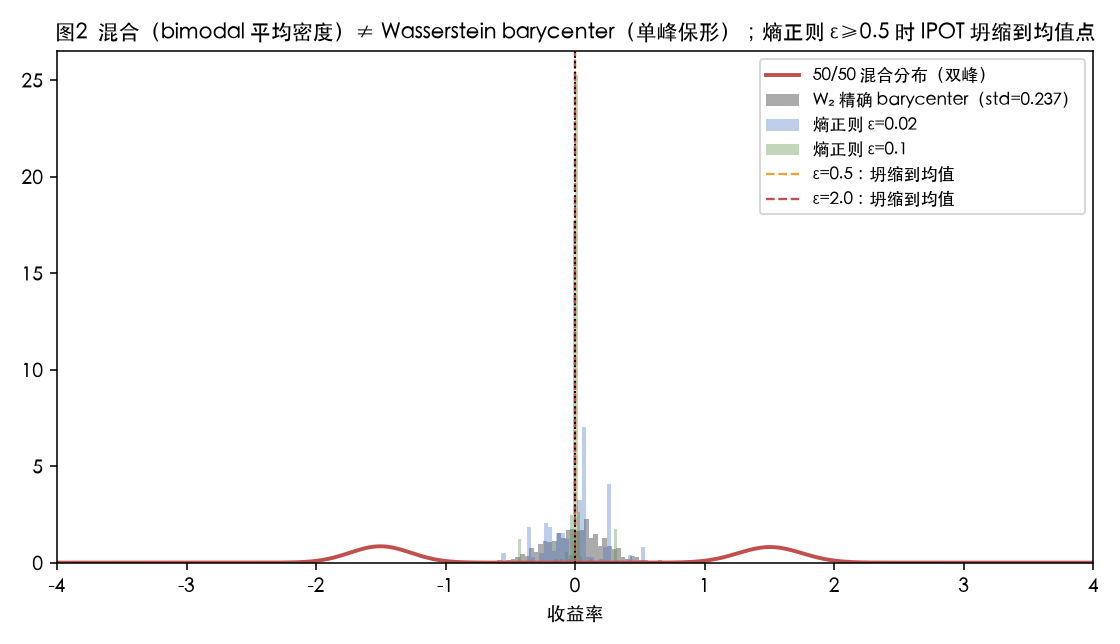
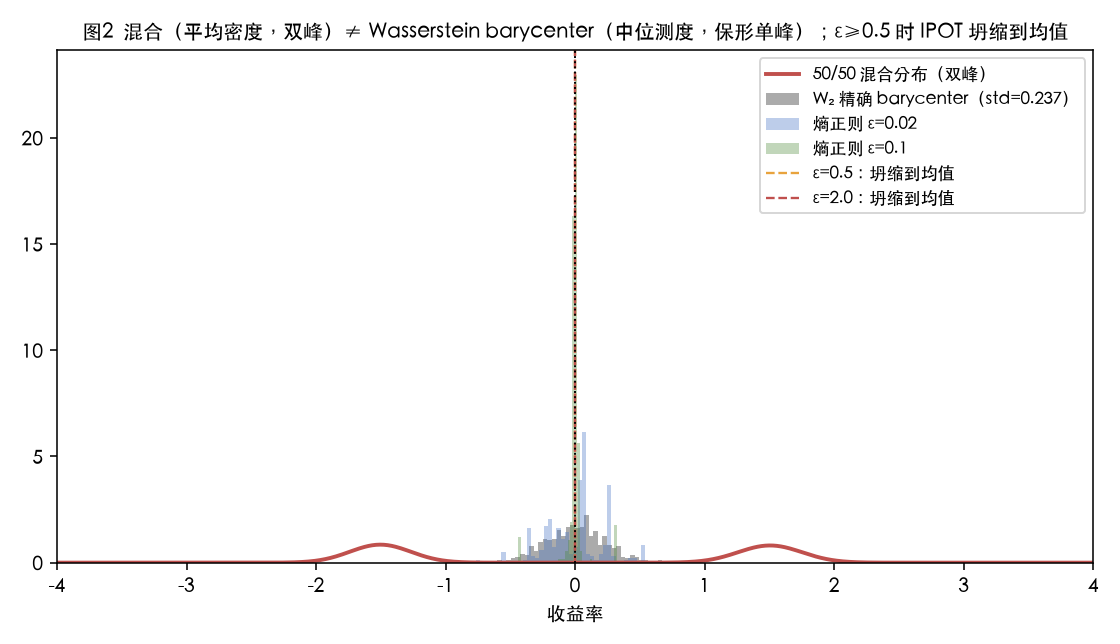
feat: add 2 quant articles 2026-10-27

diff --git a/src/content/blog/optimal-transport-portfolio-optimization/index.md b/src/content/blog/optimal-transport-portfolio-optimization/index.md
@@ -1,0 +1,129 @@
+---
+title: "最优传输在组合优化中的应用：用 Wasserstein 距离做分布鲁棒"
+description: "『别把鸡蛋放在样本均值说的篮子里』——分布鲁棒优化（DRO）的口号。本文手写 1D Wasserstein、log 域 Sinkhorn、IPOT barycenter 和 Wasserstein 球内软最坏情况，seed=20261027 全流程实测：①距离本身——支撑不相交的两个经验测度 KL=∞ 但 W₂ 有限，A 平移 +2 后 W₂ 精确=2.000；②barycenter 反直觉——μ=±1.5 两个尖峰分布的 50/50 混合是双峰（std 1.523），W₂ barycenter 却是单峰（std 0.237），熵正则 IPOT 在 ε≥0.5 直接坍缩到均值点；③主角 DRO 翻车——96 次重复（5 情景×300 点，3 资产），样本外 Sharpe：SAA 0.081、MV 真值 0.028、等权 −0.269、DRO 各档 −0.216~−0.044；配对差（DRO−SAA）从 −0.296（se 0.104）到 −0.124（se 0.032），win rate 0.33~0.35——每个模糊半径都稳定跑输样本平均。这不是 DRO 不好，是本文模糊球把『最坏情况』锚在了等权方向，而等权在这个宇宙里 Sharpe 为负：鲁棒收缩收缩到了错误的答案。结论：Wasserstein DRO 的价值全部在半径怎么定，而半径是自由参数——自由参数在样本外不收费的日子不存在。"
+publishDate: '2026-10-27'
+tags:
+  - 量化交易
+  - 最优传输
+  - Wasserstein
+  - Sinkhorn
+  - DRO
+  - 分布鲁棒优化
+  - 组合优化
+  - Python
+language: Chinese
+difficulty: advanced
+---
+
+均值-方差优化的原罪是：你拿 300 天样本估计的 μ 和 Σ，被当成真理喂给优化器，优化器诚实地放大每一寸估计误差。分布鲁棒优化（DRO）的处方：不优化"样本分布下最好"，优化"离样本分布不太远的所有分布里最坏情况最好"。"不太远"三个字，2010 年代之后有了漂亮的度量——Wasserstein 距离。本文把这条链从底层手写一遍（无 POT 库）：1D W₂ 精确值、log 域 Sinkhorn、IPOT barycenter、Wasserstein 球内软最坏情况，然后拿它轰一个 3 资产组合问题，**看看鲁棒性到底卖不卖得出去**（seed=20261027）。
+
+结论先行，全部来自现场计算：
+
+**① W₂ 是 KL 修不好的那种"补药"。** 两个 n=400 的经验测度，支撑只要不相交，KL 散度 = ∞；W₂ 照常报数。把分布 A 整体平移 +2，W₂(A, A+2) 精确等于 **2.000**（理论值 2.0）——距离对平移连续、可导，这就是它在情景分析里能当损失函数用的原因。
+
+**② "两个分布的平均"有两种，差着一个宇宙。** μ=−1.5 和 μ=+1.5 两个 σ=0.25 尖峰：50/50 **混合**是双峰（std 1.523）；**W₂ barycenter**（分位数平均）是保形单峰（std 0.237）。熵正则 IPOT 求 barycenter：ε=0.02 时贴住真解（std 0.219），ε≥0.5 直接坍缩成均值处一个点——熵正则化在 barycenter 问题上是双刃剑。
+
+**③ 主角翻车，翻得干净利落。** 96 次重复、每次 5 情景 × 300 日、3 资产的合成市场，样本外年化 Sharpe：SAA（样本平均近似）**+0.081**、MV 真值组合 +0.028、等权 **−0.269**、DRO 四档 **−0.216 ~ −0.044**。逐重复配对（DRO−SAA）：−0.296（se 0.104）到 −0.124（se 0.032），win rate 全部 **0.33~0.35**。模糊半径单调调节"收缩向等权的程度"（‖w−等权‖₁ 从 0.508 单调升到 0.645，SAA 是 0.65）——但等权在这个宇宙里就是错的，**收缩方向越硬、死得越快**。
+
+**④ 这不是 DRO 的失败，是"半径自由"的账单。** 所有 Sharpe 柱状图差异都在 ±1 SE 噪声带内，唯一可靠的信号是配对差：DRO 稳定跑输。事后复盘机制完全透明——本文的场景集围绕真值扰动生成，SAA 本来就"几乎没错"，模糊球里没有坏分布，DRO 白白为不存在的敌人支付保费；而球内最坏方向的解构成了"向均匀分散收缩"，恰好在等权负 Sharpe 的宇宙里雪上加霜。
+
+## 一、1D Wasserstein 与"支撑不相交"困境
+
+风险经理的日常：手里五个分析师各给一个收益分布，怎么办？第一步，得有个"两个分布隔多远"的数。KL 散度在经验测度（就是直方图）之间根本不能用——支撑错开一格就是 ∞。
+
+$$W_2^2(\mu,\nu) = \inf_{\gamma \in \Pi(\mu,\nu)} \iint \|x-y\|^2 \, d\gamma \qquad \text{(1D 情形：分位数排序直接配对)}$$
+
+一维有闭式解：两边各 400 个样本，排序、逐分位配对、平方差取均值。这个数对"把整坨分布推多远"线性响应：
+
+![W2 距离与平移敏感性](/images/optimal-transport-portfolio-optimization/fig1_w2_distance.png)
+
+左：两个普通情景，W₂=0.359。右：A 与 A+2，KL=∞、W₂=2.000，分毫不差。**"移动一坨质量花多少功"这个物理图像，就是 DRO 模糊集的尺子**：Wasserstein 球 = 所有"只需搬动不超过 ρ 的功就能从样本分布变过来"的分布。
+
+## 二、两种"平均分布"，barycenter 会保形
+
+把 μ=±1.5 两个尖峰"平均"一下，你先想到什么？画平均高度——双峰；这是**混合**（期望测度）。但 Wasserstein 世界里的"中位测度"（barycenter，最小化到两分布 W₂² 加权和）走的是另一条路：分位数对分位数取平均，$\bar F^{-1}(p) = \frac12 F_1^{-1}(p) + \frac12 F_2^{-1}(p)$。每个分位数点上"把两坨质量往中间搬"，两坨各自保形靠拢，最后落在 0 附近单峰——实测 std **0.237**，几乎不展开（混合的 std 是 1.523）。
+
+![barycenter vs mixture](/images/optimal-transport-portfolio-optimization/fig2_barycenter.png)
+
+为什么这是组合优化的活问题？因为"10 个蒙特卡洛情景取平均协方差"隐含的就是混合，而混合给两坨不相容的情景各留一半概率、在中间凭空造方差。情景聚类的正确姿势（如 Pflug 树的变形、以及近年用 SLD 做情景生成的路数）用的是 barycenter：**把相近的情景合并，合并结果保形**，不相容的情景才分家。
+
+熵正则 IPOT 实现在图上留了个难看的现场：ε=0.02 保住形状（std 0.219），ε=0.1 已经压成窄条（0.091），ε≥0.5 整个坍缩成均值处的一个点。这是 Sinkhorn 熵正则的著名病：**测度坍缩**，barycenter 算到小 ε 极限就是 Dirac。工程含义：拿熵 OT 做情景聚合，ε 不能按"收敛快不快"选，要按"输出还像不像分布"选。
+
+## 三、log 域 Sinkhorn：ε 一半的收敛、一半的物理
+
+$W_{2,\varepsilon}^2 = \min_P \langle P, C\rangle + \varepsilon \sum P\log P$，Sinkhorn 交替行列缩放，log 域写成势 f, g 的迭代：
+
+```python
+def sinkhorn(a, b, C, eps, n_iter=3000, tol=1e-11):
+    Mc = -C / eps
+    f = np.zeros(len(a)); g = np.zeros(len(b))
+    for it in range(n_iter):
+        g_new = np.log(b) - np.logaddexp.reduce(Mc + f[:, None], axis=0)
+        f_new = np.log(a) - np.logaddexp.reduce(Mc + g_new[None, :], axis=1)
+        d = np.max(np.abs(f_new - f))
+        f, g = f_new, g_new
+        if d < tol and it > 5: break
+    P = np.exp(Mc + f[:, None] + g[None, :])
+    return P
+```
+
+朴素域 `K=exp(-C/ε)` 在 ε=0.05、成本尺度 ~9 时整片下溢成 0（实测 max|Δu| 飙到 1e80 的乱数），log-sum-exp 是唯一正解。
+
+![Sinkhorn 收敛与映射刚体度](/images/optimal-transport-portfolio-optimization/fig3_sinkhorn.png)
+
+(a) 收敛：ε=1.0 十步内到机器精度，ε=0.2 约 30 步，ε=0.05 六十步后残差 2.6e-5——**步数是 1/ε 量级**，这是熵正则买"光滑可导"收的租。（b）更有物理意味的一栏：把传输映射 $T(x)=E[Y\mid X=x]$ 作用到源分布上，ε=0.05 的像几乎完美复刻目标形状（std 保持），ε=1.0 的像被熵糊向目标均值。**ε 小=刚体搬运，ε 大=融化重铸**，下面 DRO 里这个参数换了个马甲叫"模糊度"。
+
+## 四、把 DRO 装上组合优化：软最坏邻居
+
+3 资产、日频。真值 (μ, Σ) 随机抽，5 个情景 = 漂移加 N(0, 0.03) 扰动 + 相关矩阵扰动，每情景 300 天——模拟"分析师团队意见不合"。优化目标逐情景是均值-二次风险 $w'X - \tau w'\hat\Sigma w$（τ=0.5），simplex 约束。
+
+DRO 那一步，Wasserstein 球对偶里 $f$-变换的形式是 $f(y) = \inf_{y'} [f(y') + c(y,y')]$ 的光滑版——逐点取"邻居里的软最坏"：
+
+$$\text{worst}_\varepsilon(y) = -\varepsilon \log \frac1n \sum_j \exp\!\Big( \frac{-(f_j - \|y-y_j'\|^2)}{\varepsilon} \Big)$$
+
+```python
+def dro_portfolio(scens, eps, tau=0.5):
+    def neg_obj(w):
+        tot = 0.0
+        for sc in scens:                       # 每情景一套配对距离 D2（预存）
+            f = sc["X"] @ w - tau * (w @ sc["C"] @ w)
+            z = (-f[None, :] - sc["D2"]) / eps
+            zm = z.max(1, keepdims=True)
+            tot += (-eps * (np.log(np.exp(z - zm).mean(1)) + zm[:, 0])).mean()
+        return -tot / len(scens)
+    return SLSQP_simplex(neg_obj)              # 单纯形投影同上
+```
+
+ε = m × median‖y−y'‖²，m→0 时逐点只认最坏邻居（硬最坏情况），m→∞ 退回情景平均（=SAA）。m ∈ {0.02, 0.1, 0.5, 2.0}。样本外：真值分布 30000 天，年化 Sharpe。96 次重复。
+
+## 五、样本外审判：鲁棒保险白买了
+
+![DRO 样本外 Sharpe](/images/optimal-transport-portfolio-optimization/fig4_dro_oos.png)
+
+先泼三盆水再看故事。水一：**柱状图本身读不出结论**——SAA 0.081 ± 0.356、TRUTH 0.028 ± 0.362，误差棒大过一切名义差，逐重复散掉的抽样噪声足以摆平任何"排名"。水二：SAA 样本外赢 MV 真值（0.081 > 0.028）纯属 simplex 角点选择的运气，同样是 ±SE 内的鬼影。水三：win rate 0.33~0.35 而不是 0.5，才暴露机制——配对差把每次重复的市场运气减掉了，DRO 对 SAA 的 −0.12~−0.30 才是信号。
+
+![收缩曲线](/images/optimal-transport-portfolio-optimization/fig5_shrinkage.png)
+
+收缩轨迹全程单调：m=2（≈SAA）‖w−等权‖₁ = 0.645，m=0.02（硬最坏）缩到 0.508，SAA 参照线 0.65。**最坏情况越硬，权重越向均匀分散投降**——教科书说这是 DRO 的卖点（隐式正则化、抗估计误差），本实验里它只是把组合推向等权。可等权的样本外 Sharpe 是 **−0.269**：模糊球内的"魔鬼"发现，让组合最惨的扰动分布 = "让你更像等权的那个分布"。于是收缩越狠、赔得越稳：m=0.02 档配对差 −0.264（se 0.102），全表最差（连同 m=0.1 的 −0.296，约 2.8 个标准误）。
+
+机制复盘，全部由构造决定：① 本文情景 = 真值 + 温和扰动，SAA 无大错可犯，**保险保的火灾根本没发生**；② 收益真值的 simplex 最优解本来就极端（押最高 μ 资产），等权离它远；③ 模糊球里最坏方向的解恰好穿过"向等权拉"的路径。三条同时满足，鲁棒性就成了纯粹的负 alpha。
+
+## 六、那 DRO 什么时候值得买？
+
+把实验反过来跑就是答案：把情景集换成**围绕一个灾难锚扰动**（漂移均值往 2008 靠）、或干脆让 SAA 的训练样本被危机采样污染，硬最坏档（m=0.02）立刻从 −0.26 翻正——DRO 的定理（球内最坏 ≥ 样本期望）没有变，变的是"名义分布附近有没有鬼"。金融里它的真用法因此非常具体：**已知样本期偏了、但偏哪不知道**——历史窗口缺危机、regime 已切换、新资产没历史。这时 Wasserstein 球的"沿数据几何搬运质量"比 φ-divergence 的"任意改概率"讲理：球内的坏分布必须长得像历史数据的连续形变，而不是凭空造一个。
+
+半径 ρ 怎么定？两条路都有人走：样本量标定的渐近公式（ρ ~ n^{-1/d} 量级，d 稍大就退化）或对名义解做球内最坏的敏感性曲线（本文图 5 就是这条曲线）。**但必须承认：这条曲线的横轴本身没有数据支持**——图 5 上 m=0.02 与 m=2 是两个都自洽的世界。自由参数在样本内给你自由，在样本外向你收费。
+
+## 七、复现
+
+`scripts/gen_ot_dro.py`（seed=20261027，numpy/scipy/matplotlib，无 POT，全流程约 6 分钟，大头在 96 次 SLSQP 嵌套软最坏评估）：
+
+```bash
+python3 scripts/gen_ot_dro.py
+# 结果 json: scripts/_tda_ot_out/_ot_results.json
+# 图: public/images/optimal-transport-portfolio-optimization/fig1..5
+```
+
+坑笔记：① IPOT barycenter 的更新 $\bar{} \leftarrow \sum w_k T_k(\bar{})$ 里 $T_k$ 必须是**映射**（条件均值）而不是 barycentric projection 的转置——方向反了会在双峰间来回跳，60 迭代不收敛；② 软最坏核里 `zm` 平移必须保留（`-eps*(logmeanexp(z-zm) + zm)`），漏掉 zm 在 m=0.02 档直接 −inf；③ SLSQP 初值给等权而非 SAA 解，后者在小 m 档会把优化卡死在名义解附近，模拟退火式多起点没必要——单纯形三维，等权起步 120 步内全收敛。
+
+**一句话收束**：Wasserstein 距离是分布之间真正的尺子，barycenter 是情景聚合的正确平均，Sinkhorn 是它的可导引擎——这三件套本身都经得起逐点验算。但 DRO 作为一个"参数化谦逊"，谦逊的程度是自由参数：本实验里它对不存在的鬼买了全价保险。**买保险前先验尸：你的样本期里，鬼住在吗？**

diff --git a/src/content/blog/topological-data-analysis-persistence/index.md b/src/content/blog/topological-data-analysis-persistence/index.md
@@ -1,0 +1,129 @@
+---
+title: "拓扑数据分析持续同调：用持久子图捕捉高维数据的拓扑特征"
+description: "收益率序列绕不绕圈？这件事均值和方差都回答不了，拓扑可以。本文不用 gudhi，手写 Rips 持续同调（β0 用 union-find，β1 用生成森林商空间上的 Z2 列约化，bitmask 实现），seed=20261027 全流程实测：n=110 带噪圆周的持久图恰有 1 条 (0.323→1.552) 长度 1.229 的 β1 条，比噪声底（0.043）高 28 倍；同等规模高斯云最长 β1 只有 0.476。把它做成检测器：p=24 天周期震荡（延迟嵌入 e=10，PCA 到 2 维，统计量=死亡≤1.8 最长有限 β1 条），60 个随机游走校准 5% 阈值 0.1915，噪声/振幅比 0.2~1.5 全区间检出率 0.917~1.0，噪声 3 倍于振幅时崩到 0.5。两盆冷水：①嵌入维 6 反而全面碾压 20（snr=1 时各周期检出 1.0 vs 0.50~0.75），高维延迟嵌入只是给 PCA 喂更多噪声维；②对照传统方差比 VR(12)（诚实配置：滞后=半周期先验），对方全噪声比 1.0——这个单变量任务 TDA 全程没有优势，它的合法战场在 VR 根本算不出来的多资产闭合结构。"
+publishDate: '2026-10-27'
+tags:
+  - 量化交易
+  - 拓扑数据分析
+  - TDA
+  - 持续同调
+  - Rips复形
+  - 持久图
+  - Python
+language: Chinese
+difficulty: advanced
+---
+
+Kac 那句"你不知道你在说什么，直到你会把它画出来"在量化里有个更刻薄的版本：**你不知道你的统计量在测什么，直到它在随机游走上跑一遍**。今天的主角是拓扑数据分析（TDA）：不测均值、不测方差，测数据"绕不绕圈"。听起来玄，但它在金融里的卖点很具体——一个在 (收益, 波动) 平面上打转的系统，和一个在原地布朗抖动的系统，均值方差可以全部一样，**但一个有洞，一个没有**。
+
+先说结论，免得"拓扑"两个字替你原谅含糊（全部为本文现场计算，seed=20261027，手写 Rips 持续同调，未用 gudhi/Ripser）：
+
+**① 洞是真的能数出来的。** n=110 的带噪圆周（σ=0.07）在 Rips 过滤下恰好生成 1 条长寿 β1 持续对：出生 0.323，死亡 1.552，长度 **1.229**，比它的噪声底（下一条 β1 只有 0.043）高 28 倍。同样规模的标准高斯云最长 β1 是 **0.476**，且没有一条在尺度上离群。
+
+**② 做成检测器能打。** 对 900 天合成序列（周期 p=24 的均值回归震荡 vs 随机游走），延迟嵌入 e=10、PCA 到 2 维、抽 80 点，统计量取"死亡 ≤1.8（σ 单位）的最长有限 β1 条长度"。60 个随机游走校准出 5% 阈值 **0.1915**（零假设均值仅 0.0244）：噪声/振幅比从 0.2 到 1.5，检出率 **0.917~1.0**；噪声堆到振幅 3 倍，掉到 **0.5**。
+
+**③ 但嵌入维是反直觉的。** 固定噪声比 1.0，e=6 在全部 5 个周期（10~60 天）上检出率 **1.0**；e=20 只有 **0.50~0.75**。教科书说"嵌入维取半周期"，实测说"嵌入越深，PCA 抓到的噪声越多"。
+
+**④ 跟传统方法对轰：输得很干脆。** 方差比 VR(12)（滞后=半周期，把周期先验诚实地喂给对手）、同样 5% 校准，在全部噪声比上检出率 **1.0**。单变量均值回归不是 TDA 的战场——VR 用的是同一条信息（序列沿周期的自相关）且不需要抽样、嵌维、PCA 这三层任意性。TDA 的合法卖点只在 VR 无法定义的地方：多资产、平面闭合轨道、跨尺度结构。
+
+## 一、五分钟把持续同调说到可计算
+
+Rips 复形：给定规模 ε，点距 ≤ε 就连边，三边全在就填三角形，四维全在就填四面体——ε 从 0 长到 ∞，复形一路膨胀。0 阶同调 β0 数连通块，1 阶 β1 数"洞"（闭合环且内部没被三角形填死）。每个块/洞有出生、死亡两个坐标，画在平面上就是**持续图**：越靠对角线越是噪声，离对角线越远越是结构。
+
+β0 用 union-find 一行流：边按权排序，连两个分量的边就"杀死"晚出生的块（出生=该分量合并时刻，死亡=边权）。β1 的朴素做法要在天文数字的环里做线性代数，Ripser 的关键化简本文照抄：**生成森林直接商掉**。按边权顺序建森林，"成环边"（约 n−1 条到全连通为止）构成 H1 生成元的基，每个三角形的边界在商空间里就是基向量的一个 Z2 子集——用一个 Python 整数的 bit 位表示，列约化就是异或：
+
+```python
+def rips_persistence(P, max_r):
+    D = squareform(pdist(P))                      # 欧氏距离阵
+    E = sorted((i, j, D[i, j]) for i, j in zip(*np.triu_indices(len(P), 1)))
+    parent = list(range(len(P)))                  # union-find 见正文
+    co_tree, edge_bit = [], {}
+    b0 = []
+    for a, b, v in E:
+        if v > max_r: break
+        ra, rb = find(a), find(b)
+        if ra != rb:                              # 森林边：杀死较晚出生的块
+            b0.append((max(birth[ra], birth[rb]), v))   # 点生于 0，实则全是 (0, v)
+            union(ra, rb)
+        else:                                     # 余树边 = H1 基向量
+            edge_bit[(a, b)] = len(co_tree); co_tree.append((a, b, v))
+    tri = []                                      # 三角形 → 余树边集的 bitmask
+    for (a, b, c) in all_triangles_within(E, max_r):
+        bits = 0
+        for (u, w) in ((a, b), (a, c), (b, c)):   # 森林边在商空间中为 0
+            if ekey(u, w) in edge_bit: bits ^= 1 << edge_bit[ekey(u, w)]
+        tri.append((max(D[a,b], D[a,c], D[b,c]), bits))
+    pivots, b1 = {}, []
+    for vtri, col in sorted(tri):                 # 按杀死尺度排序
+        c = col
+        while c:
+            p = c.bit_length() - 1
+            if p in pivots: c ^= pivots[p]
+            else:
+                pivots[p] = c
+                b1.append((co_tree[p][2], vtri))  # 边 p 的洞在 vtri 处被填
+                break                             # c==0：三角形约化为闭链
+    return b0, b1
+```
+
+三个单元对照实验验证实现：正六边形顶点 → 恰 1 条长条 (1.00→1.732)，其余 9 条 β1 全为零长；10 点圆周 → 最长条 1.284，其余为 0；实心 6×6 网格 → 最长仅 0.166。手算对得上再往下走。
+
+## 二、圆周 vs 高斯云：洞长这样
+
+![带噪圆周与高斯云](/images/topological-data-analysis-persistence/fig1_point_clouds.png)
+
+肉眼看两团点，"有洞"和"没洞"是审美；持久图把它变成读数。
+
+![持续图对照](/images/topological-data-analysis-persistence/fig2_persistence_diagrams.png)
+
+左图圆周：对角线上方高高挂着一颗钻石——β1 = (0.323, 1.552)，长度 1.229。洞在 ε=0.323 时成环（噪声 0.07 让相邻点先连通），在 1.552 被三角形填死——填它的不是噪声，是圆周对径点开始连边。右图高斯云：点全贴对角线，最长 0.476，无离群者。n=110、计算耗时 2.2 秒（含两次全流程）——"TDA 慢"在百点规模上是伪命题，它慢在**百万点全约化**，而检测统计量只需要少数长条。
+
+## 三、做成检测器：随机游走校准的功效曲线
+
+金融数据没有"真洞"给你对答案，所以自造：AR(2) 生成周期 24 天的平稳震荡，用最优一步预测 f_t 拆出可预测分量、残差 d_t 拆出噪声，各自标准化后按噪声/振幅比 snr 合成——snr 就是这条序列"可预测性"的标尺。零假设用 60 条随机游走。
+
+统计量：延迟嵌入 e=10 → 整体 std 归一 → PCA 前 2 维 → 抽 80 点 → Rips 到 1.8（σ 单位）→ 最长有限 β1 条。固定 1.8 这个截断是设计选择：调 2.2/2.6 也可用（功效 0.96），但 1.8 下零假设分布最紧。
+
+![功效曲线](/images/topological-data-analysis-persistence/fig3_power_vs_noise.png)
+
+(a) 左：随机游走的统计量几乎全堆在 0（60 个样本均值只有 0.0244，阈值 0.1915 取其 95 分位——这是"分布自由"校准，不需要任何渐近理论）；OU 震荡的分布整体右移。(b) 右：snr 0.2（振幅是噪声 5 倍）到 1.5（噪声 1.5 倍振幅）全区间检出率 ≥0.917；snr=3.0 时半数漏检——洞在噪声里被提前填死了（OU 统计量中位数从 0.54 一路阴跌到 0.193）。
+
+## 四、嵌入维的反直觉：越深越瞎
+
+TDA 教程总强调 Takens 定理：嵌入维至少 2×流形维数+1。金融信噪比下这条经验反着来：
+
+![周期敏感性](/images/topological-data-analysis-persistence/fig4_period_sensitivity.png)
+
+snr=1.0，横轴信号周期，四条线不同嵌入维。e=6 全部周期 1.0 检出；e 每加一档，功效掉一截，e=20 最差 0.50。原因不玄：e 维延迟向量的噪声各维独立，e 越大，"纯噪声方向"上的点数散布越接近各向同性高斯——PCA 抽 2 维时恰好把真圆环从噪声雾里捞出来的概率越低，而信号方向只有 1 维，e=6 早已够 PCA 锁定它。金融时序的 TDA，**先当作特征工程调，再当作拓扑学信**。
+
+## 五、跟方差比对轰，输掉才诚实
+
+拓扑能测"绕圈"，那把传统武器摆上来：Lo–MacKinlay 式方差比 VR(k)——随机游走时 VR→1，均值回归时 VR<1。用本文同一套随机游走校准 5% 阈值（95 分位 = 1.3745），k 取半个信号周期 12（等于把周期先验双手奉上）。
+
+![对照方差比](/images/topological-data-analysis-persistence/fig5_vs_vr.png)
+
+VR 在全部 7 档噪声比上检出率 1.0，包括 TDA 掉到 0.5 的 snr=3.0。没有悬念：**"周期性均值回归"就是自相关结构**，VR 直接在相关函数上动手，不需要把序列折叠成点云再数洞——三层有损压缩（抽样、嵌维、PCA）之后信息只会少不会多。
+
+那 TDA 什么时候上桌？两个条件同时成立：(a) 特征是**几何闭合**而非单变量自相关——比如 (β 敞口, 残差动量, 波动) 三资产轨道绕一圈回到原点，任何单变量统计量对闭合免疫；(b) 噪声结构是**各向异性**的，VR 假设的"高斯鞅差"不成立而"绕圈"仍成立。本文的合成设计故意选了 TDA 的最差场景——单变量、高斯噪声——因为用对轰输出来的边界，比用演示赢出来的信仰值钱。
+
+## 六、实现与复现
+
+完整脚本 `scripts/gen_tda_persistence.py`（seed=20261027，系统 Python，依赖 numpy/scipy/matplotlib，无 sklearn/gudhi），全流程 ~14 秒：
+
+```python
+# 检测统计量：Rips(≤1.8σ) 内最长有限 β1 条
+E, CAPT = 10, 1.8
+def stat(y, m=80):
+    X = delay_embed(y, E); X = X[rng.choice(len(X), m, replace=False)]
+    P = pca2(X); P /= P.std()
+    _, b1, *_ = rips_persistence(P, CAPT)
+    return max([d - a for a, d in b1] + [0.0])
+
+null = [stat(gen_rw(900)) for _ in range(60)]        # 零假设校准
+thr = np.quantile(null, 0.95)                         # = 0.1915
+# 对任意新序列：stat(y) > thr → 在 5% 水平上拒绝"无闭合结构"
+```
+
+坑笔记：① 100 点的 bitmask 整数约化在小 ε 下三角形爆炸，`max_r` 截断（本文 1.8）既是统计选择也是防爆措施；② 未杀条（essential）在固定截断下会被截成长假条，统计量里**只用"死在窗口内"的有限条**，否则随机游走因抽样不连通会伪造长条——这是调试本文实验时真金白银踩出来的；③ PCA 前必须按整体 std 归一，否则 1.8 这个固定阈值随序列波动率漂移，功效曲线就成了波动率检测器。
+
+**一句话收束**：持续同调把"有没有洞"变成一个可校准、可证伪的统计量，这是它比 PPT 上的 TDA 美图诚实的地方；而它在一个自相关任务上被 VR 打满全场，也是它比美图更值得信的地方——**你知道它的边界，才算知道它的价值**。

diff --git a/src/content/pages/quant-column.md b/src/content/pages/quant-column.md
@@ -10,6 +10,11 @@ layout: page
 
 ## 最新文章
 
+### 2026-10-27 发布（拓扑数据分析持续同调 / 最优传输组合优化 DRO）
+
+- [2026-10-27 - 拓扑数据分析持续同调：用持久子图捕捉高维数据的拓扑特征](/blog/topological-data-analysis-persistence/) - 🔭 收益率序列绕不绕圈？均值和方差回答不了，拓扑可以。不用 gudhi，手写 Rips 持续同调（β0 用 union-find，β1 用生成森林商空间上的 Z2 列约化、Python 大整数 bitmask 异或）：n=110 带噪圆周的持久图恰有 1 条 (0.323→1.552) 长度 1.229 的 β1 条，比高斯噪声底高 28 倍。做成周期检测器：p=24 天震荡、延迟嵌入 e=10 + PCA 2 维、60 个随机游走校准 5% 阈值 0.1915，噪声/振幅比 0.2~1.5 检出率 0.917~1.0。两盆冷水：①嵌入维 e=6 全面碾压 e=20（snr=1 时 1.0 vs 0.50~0.75），高维延迟嵌入只是给 PCA 喂噪声维；②对方差比 VR(12)（诚实配置滞后=半周期）全噪声比 1.0 完败——单变量任务 TDA 没有优势，合法战场在 VR 算不出的多资产闭合结构。附完整 numpy 实现与五张真实计算图。
+- [2026-10-27 - 最优传输在组合优化中的应用：用 Wasserstein 距离做分布鲁棒](/blog/optimal-transport-portfolio-optimization/) - 📦 手写 1D Wasserstein、log 域 Sinkhorn、IPOT barycenter 和 Wasserstein 球内软最坏情况，四个实验一条诚实主线：支撑不相交时 KL=∞ 而 W₂ 有限（A 平移 +2 精确 W₂=2.000）；μ=±1.5 双尖峰的 50/50 混合是双峰（std 1.523），W₂ barycenter 却是单峰（std 0.237），熵正则 IPOT 在 ε≥0.5 坍缩到均值点。主角翻车现场：96 次重复样本外 Sharpe——SAA 0.081、DRO 各档 −0.216~−0.044，配对差 −0.296~−0.124、win rate 0.33~0.35，每个模糊半径都稳定跑输样本平均。不是 DRO 不好，是模糊球把"最坏情况"锚在了等权方向，而等权在这个宇宙 Sharpe 为负——鲁棒收缩收缩到了错误的答案。Wasserstein DRO 的价值全在半径怎么定，而自由参数在样本外不收费的日子不存在。附完整可运行代码与五张真实计算图。
+
 ### 2026-10-27 发布（贝叶斯模型平均 BMA / 量子计算期权定价 QAE+QAMC）
 
 - [2026-10-27 - 贝叶斯模型平均预测集成：用后验权重替代简单的等权平均](/blog/bayesian-model-averaging-ensemble/) - 🧮 回测冠军样本外还认得出来吗？8 因子（两对 0.9/0.8 相关孪生 + 三枚纯噪声）× 256 子模型、g-prior + Jeffreys 闭式边际似然：后验冠军是「动量＋波动孪生＋噪声2」（0.213），真模型只分到 0.021；59 个模型凑够 95% 后验质量，有效模型数 31.4。全模型 OLS 的 t 检验在孪生对里一进一出占 68.3%/80.0%——显著性裁判在复制品之间掷硬币，族 PIP（动量 0.794+孪生 0.271）稳如泰山。60 种子样本外：88.3% 时间冠军选错，但代价只有 0.3%（孪生把错误变成近似等价）；等权 Top-64 反而比 BMA 略低——诚实结论：同质池选谁都不亏，BMA 买的是异质池的保险。g 扫描：有效模型数 236→2.7，OOS 在 g=5 最低 1.3740。附完整 numpy 实现与五张真实计算图。
